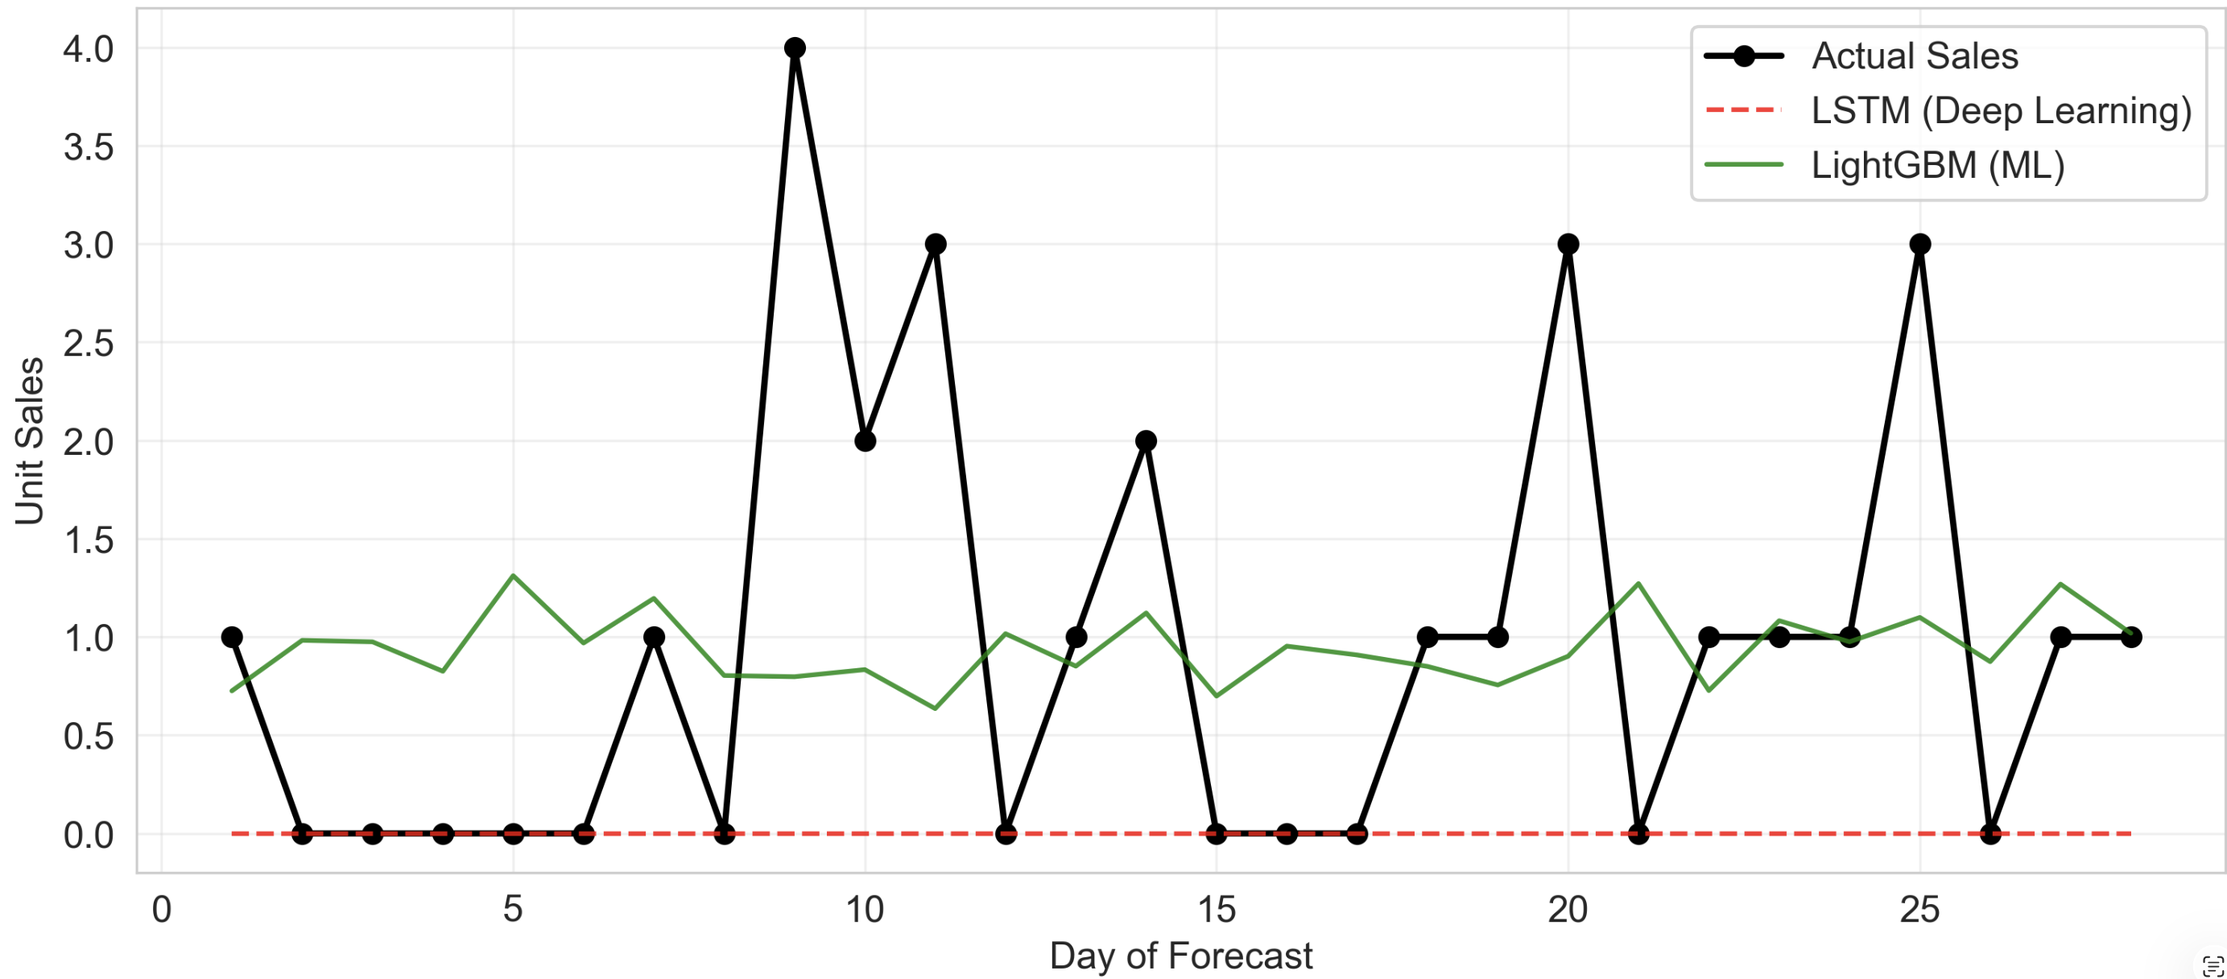
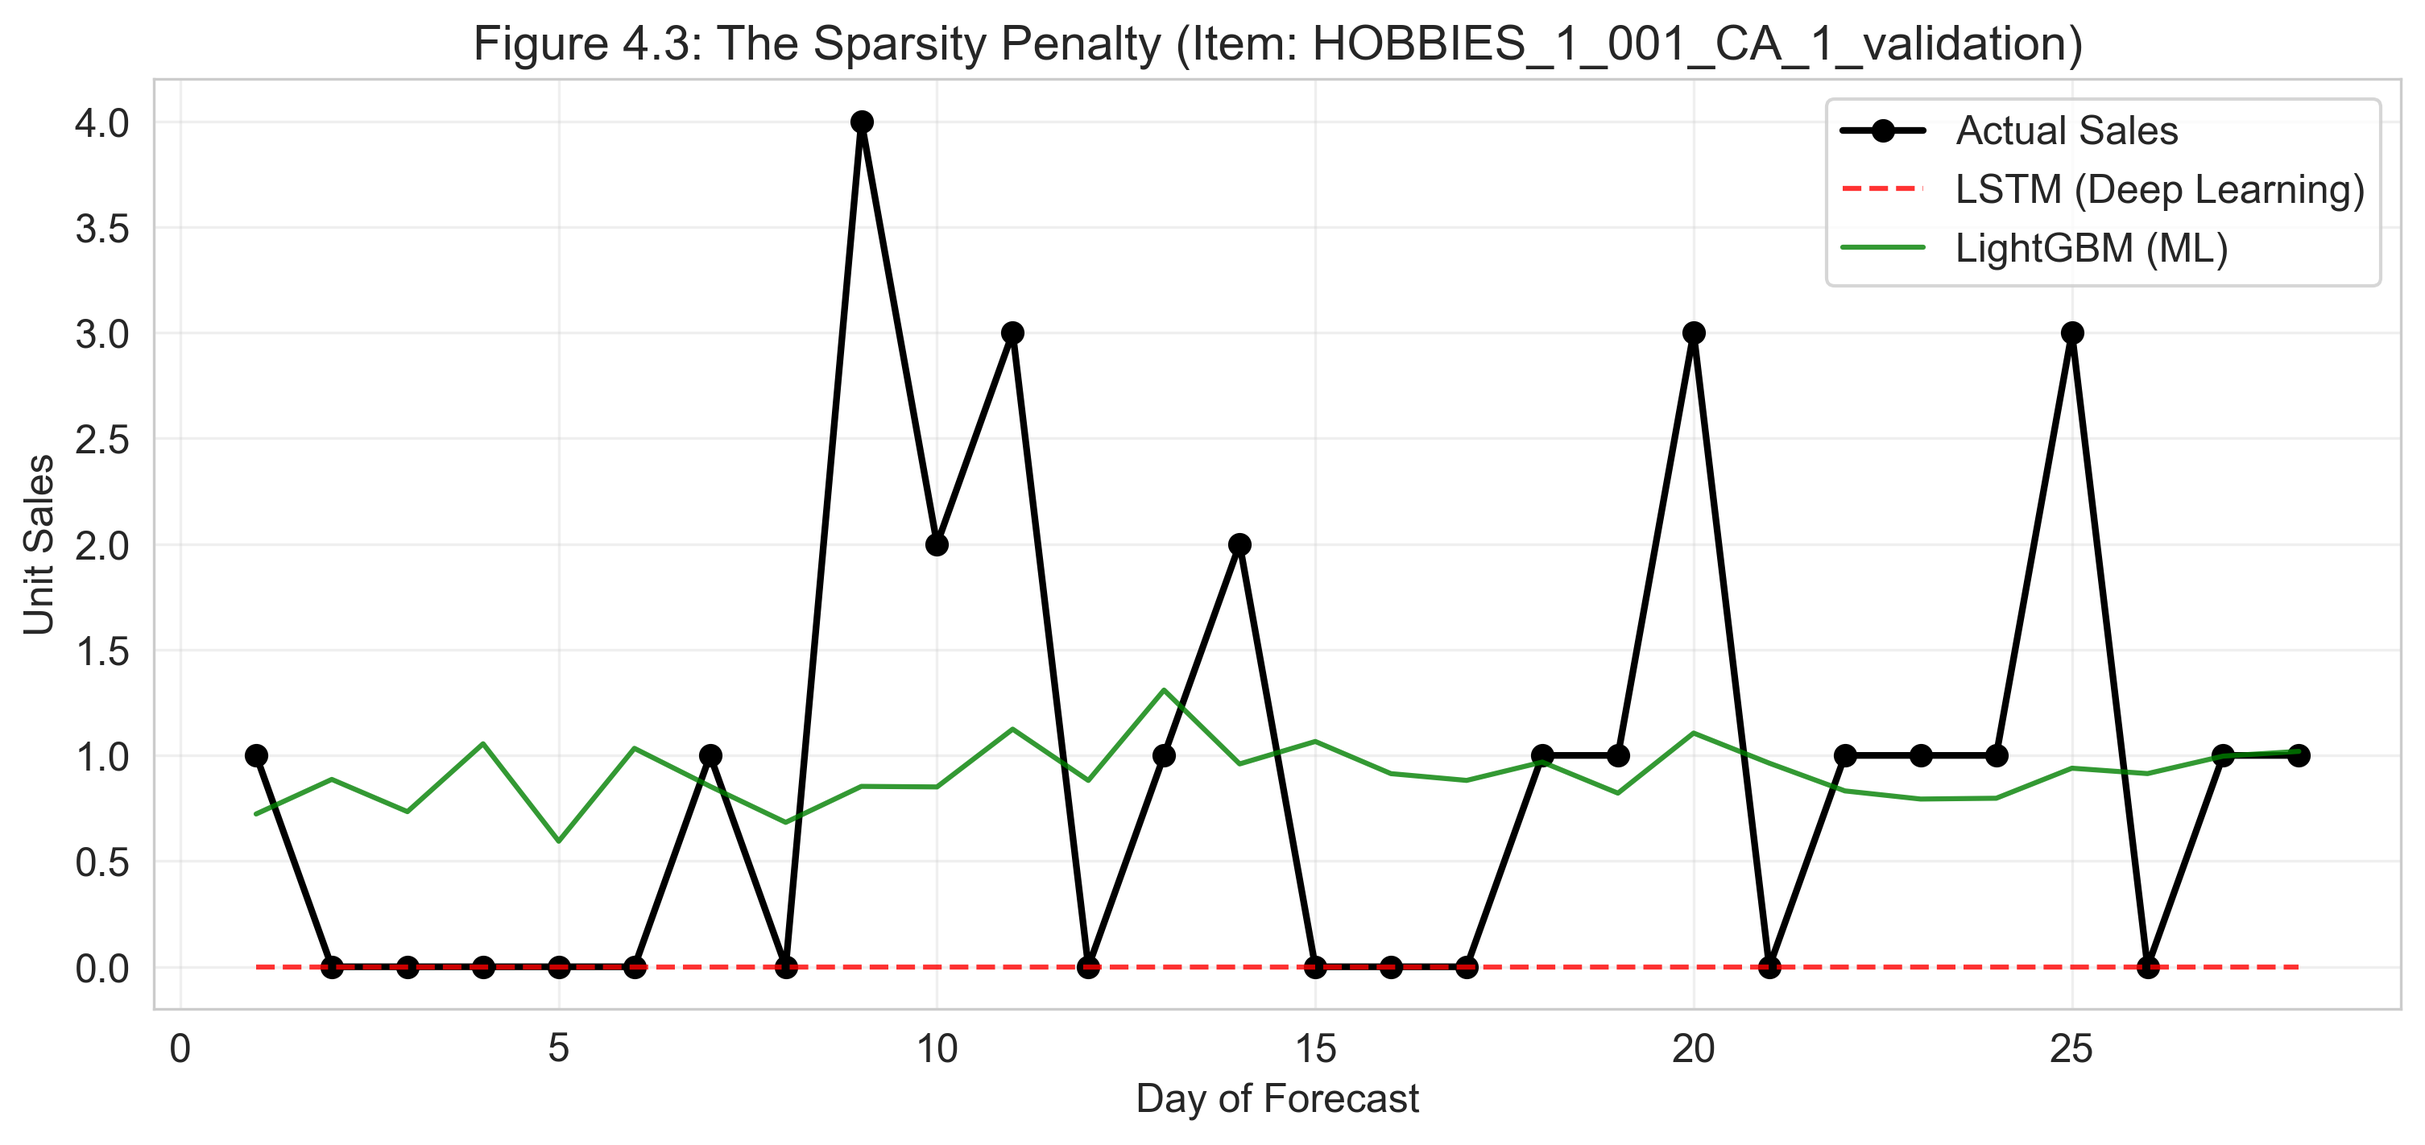
refactor: update report work plans, adjust plot labels, and remove redundant image assets

diff --git a/backend/reports/diagrams/create_report_plots.py b/backend/reports/diagrams/create_report_plots.py
@@ -32,7 +32,7 @@ def plot_zero_inflation():
         counts = sample['sales'].value_counts().sort_index().head(10) # 0 to 9
         
         sns.barplot(x=counts.index, y=counts.values, color="skyblue", edgecolor="black")
-        plt.title("Figure 4.1: Zero-Inflation in M5 Dataset (Sample of 1M Rows)")
+        plt.title("Figure 4.3: Zero-Inflation in M5 Dataset (Sample of 1M Rows)")
         plt.xlabel("Daily Unit Sales")
         plt.ylabel("Frequency")
         plt.yscale("log") # Log scale to show the drop
@@ -67,8 +67,8 @@ def plot_benchmark_leaderboard():
         print(f"Skipping Figure 4.2: {e}")
 
 def plot_financial_impact():
-    """Figure 4.4: Cost Comparison"""
-    print("Generating Figure 4.4 (Financial Impact)...")
+    """Figure 5.3: Cost Comparison"""
+    print("Generating Figure 5.3. (Financial Impact)...")
     try:
         df = pd.read_csv(RESULTS_DIR / "optimization/optimization_summary.csv")
         
@@ -85,7 +85,7 @@ def plot_financial_impact():
         p1 = plt.bar(models, stockout, color='#e74c3c', label='Stockout Cost')
         p2 = plt.bar(models, holding, bottom=stockout, color='#f1c40f', label='Holding Cost')
         
-        plt.title("Figure 4.4: Financial Impact Analysis (Inventory Simulation)")
+        plt.title("Figure 5.3.: Financial Impact Analysis (Inventory Simulation)")
         plt.ylabel("Total Logistics Cost ($)")
         plt.legend()
         

diff --git a/docs/ie4198/IE4198 - Final Report.md b/docs/ie4198/IE4198 - Final Report.md
@@ -221,39 +221,39 @@ Table 5.2: Inventory Optimization Simulation Results ………………………
 
 ### **IE 4197 Work Plan**
 
-| Wp | Name of Wp | Responsible | w1 | w2 | w3 | w4 | w5 | w6 | w7 | w8 | w9 | w10 | w11 | w12 | w13 | w14 |
-| :--- | :--- | :--- | :--- | :--- | :--- | :--- | :--- | :--- | :--- | :--- | :--- | :--- | :--- | :--- | :--- | :--- |
-| **1.** | **Defining the Problem** | **All Group Members** | X | X | X | | | | | | | | | | | |
-| 1.1 | Analyze Bullwhip & Cost Balance | All Group Members | X | X | | | | | | | | | | | | |
-| 1.2 | Problem Statement & Diagram | All Group Members | | X | X | | | | | | | | | | | |
-| **2.** | **Literature Review & Examination** | **Boran T., Hakan İ.** | | | | X | X | X | X | | | | | | | |
-| 2.1 | ML Literature Review | Boran Turan | | | | X | X | X | | | | | | | | |
-| 2.2 | Classical Literature & Standard | Hakan İspir | | | | | X | X | X | | | | | | | |
-| **3.** | **Method Identification & Modeling** | **Ali K., Boran T.** | | | | | | | | | X | X | X | | | |
-| 3.1 | Dual-Track Architecture | Ali Kahya | | | | | | | | | X | X | | | | |
-| 3.2 | Mathematical Modeling | Boran Turan | | | | | | | | | | X | X | | | |
-| **4.** | **Validating Data & Tools** | **Hakan İspir** | | | | | | | | | | | | X | X | X |
-| 4.1 | EDA & Data Setup | Hakan İspir | | | | | | | | | | | | X | X | |
-| 4.2 | Project Repository & Plan | Hakan İspir | | | | | | | | | | | | | X | X |
+| Wp           | Name of Wp                                 | Responsible                 | w1 | w2 | w3 | w4 | w5 | w6 | w7 | w8 | w9 | w10 | w11 | w12 | w13 | w14 |
+| :----------- | :----------------------------------------- | :-------------------------- | :- | :- | :- | :- | :- | :- | :- | :- | :- | :-- | :-- | :-- | :-- | :-- |
+| **1.** | **Defining the Problem**             | **All Group Members** | X  | X  | X  |    |    |    |    |    |    |     |     |     |     |     |
+| 1.1          | Analyze Bullwhip & Cost Balance            | All Group Members           | X  | X  |    |    |    |    |    |    |    |     |     |     |     |     |
+| 1.2          | Problem Statement & Diagram                | All Group Members           |    | X  | X  |    |    |    |    |    |    |     |     |     |     |     |
+| **2.** | **Literature Review & Examination**  | **All Group Members** |    |    |    | X  | X  | X  | X  |    |    |     |     |     |     |     |
+| 2.1          | ML Literature Review                       | Hakan İspir                |    |    |    | X  | X  | X  |    |    |    |     |     |     |     |     |
+| 2.2          | Classical Literature & Standard            | Ali K., Boran T.            |    |    |    |    | X  | X  | X  |    |    |     |     |     |     |     |
+| **3.** | **Method Identification & Modeling** | **Ali K., Boran T.**  |    |    |    |    |    |    |    |    | X  | X   | X   |     |     |     |
+| 3.1          | Dual-Track Architecture                    | Ali Kahya                   |    |    |    |    |    |    |    |    | X  | X   |     |     |     |     |
+| 3.2          | Mathematical Modeling                      | Boran Turan                 |    |    |    |    |    |    |    |    |    | X   | X   |     |     |     |
+| **4.** | **Validating Data & Tools**          | **All Group Members**      |    |    |    |    |    |    |    |    |    |     |     | X   | X   | X   |
+| 4.1          | EDA & Data Setup                           | Hakan İ., Ali K.           |    |    |    |    |    |    |    |    |    |     |     | X   | X   |     |
+| 4.2          | Project Repository & Plan                  | Hakan İ., Boran T.         |    |    |    |    |    |    |    |    |    |     |     |     | X   | X   |
 
 <br>
 
 ### **IE 4198 Work Plan**
 
-| Wp | Name of Wp | Responsible | w1 | w2 | w3 | w4 | w5 | w6 | w7 | w8 | w9 | w10 | w11 | w12 | w13 | w14 |
-| :--- | :--- | :--- | :--- | :--- | :--- | :--- | :--- | :--- | :--- | :--- | :--- | :--- | :--- | :--- | :--- | :--- |
-| **5.** | **Global Scaling & ETL** | **Hakan İ., Boran T.** | X | X | X | | | | | | | | | | | |
-| 5.1 | Polars Pipeline Translation | Hakan İspir | X | X | | | | | | | | | | | | |
-| 5.2 | Full Dataset Ingestion | Boran Turan | | X | X | | | | | | | | | | | |
-| **6.** | **Advanced Model Development** | **Boran T., Ali K.** | | | | X | X | X | X | | | | | | | |
-| 6.1 | Feature Engineering & LightGBM | Boran Turan | | | | X | X | X | | | | | | | | |
-| 6.2 | DeepAR Architecture | Ali Kahya | | | | | X | X | X | | | | | | | |
-| **7.** | **DSS & Economics Simulation** | **Hakan İ.** | | | | | | | | X | X | X | X | | | |
-| 7.1 | DSS & Critical Ratio Optimizer | Hakan İspir | | | | | | | | X | X | X | | | | |
-| 7.2 | SHAP & Financial Simulation | Hakan İspir | | | | | | | | | X | X | X | | | |
-| **8.** | **Final Evaluation & Documentation** | **All Group Members** | | | | | | | | | | | | X | X | X |
-| 8.1 | Data Synthesis & Conclusion | All Group Members | | | | | | | | | | | | X | X | |
-| 8.2 | Final Report & Defense | All Group Members | | | | | | | | | | | | | X | X |
+| Wp           | Name of Wp                                 | Responsible                   | w1 | w2 | w3 | w4 | w5 | w6 | w7 | w8 | w9 | w10 | w11 | w12 | w13 | w14 |
+| :----------- | :----------------------------------------- | :---------------------------- | :- | :- | :- | :- | :- | :- | :- | :- | :- | :-- | :-- | :-- | :-- | :-- |
+| **5.** | **Global Scaling & ETL**             | **Hakan İ., Boran T.** | X  | X  | X  |    |    |    |    |    |    |     |     |     |     |     |
+| 5.1          | Polars Pipeline Translation                | Hakan İspir                  | X  | X  |    |    |    |    |    |    |    |     |     |     |     |     |
+| 5.2          | Full Dataset Ingestion                     | Boran Turan                   |    | X  | X  |    |    |    |    |    |    |     |     |     |     |     |
+| **6.** | **Advanced Model Development**       | **Hakan İspir**        |    |    |    | X  | X  | X  | X  |    |    |     |     |     |     |     |
+| 6.1          | Feature Engineering & LightGBM             | Hakan İspir                  |    |    |    | X  | X  | X  |    |    |    |     |     |     |     |     |
+| 6.2          | DeepAR Architecture                        | Hakan İspir                  |    |    |    |    | X  | X  | X  |    |    |     |     |     |     |     |
+| **7.** | **DSS & Economics Simulation**       | **All Group Members**        |    |    |    |    |    |    |    | X  | X  | X   | X   |     |     |     |
+| 7.1          | DSS & Critical Ratio Optimizer             | All Group Members             |    |    |    |    |    |    |    | X  | X  | X   |     |     |     |     |
+| 7.2          | SHAP & Financial Simulation                | All Group Members             |    |    |    |    |    |    |    |    | X  | X   | X   |     |     |     |
+| **8.** | **Final Evaluation & Documentation** | **All Group Members**   |    |    |    |    |    |    |    |    |    |     |     | X   | X   | X   |
+| 8.1          | Data Synthesis & Conclusion                | All Group Members             |    |    |    |    |    |    |    |    |    |     |     | X   | X   |     |
+| 8.2          | Final Report & Defense                     | All Group Members             |    |    |    |    |    |    |    |    |    |     |     |     | X   | X   |
 
 <br>
 
@@ -262,6 +262,7 @@ Table 5.2: Inventory Optimization Simulation Results ………………………
 **Duration**: 1 – 3 weeks
 **Work Package 1:** Defining the Problem
 **Activities:**
+
 * Looking into the Bullwhip Effect within today’s retail supply networks reveals how flawed predictions often lead to too much stock. One major cause behind surplus inventory turns out to be unreliable demand forecasts.
 * Started by outlining what the M5 Forecasting Challenge covered, particularly how balancing leftover stock expenses shaped decisions instead of running out too often. Costs tied to excess storage played off against those linked to missing sales. This balance guided the entire approach taken throughout the study.
 * Early discussions took place with the project supervisor, Professor Doctor Serol Bulkan, ensuring research goals matched academic expectations. Starting these conversations helped clarify direction early on.
@@ -273,9 +274,10 @@ Table 5.2: Inventory Optimization Simulation Results ………………………
 **Duration**: 4 – 7 weeks
 **Work Package 2:** Literature Review & Examination of the Application
 **Activities:**
-* A thorough analysis of scholarly work on traditional prediction methods - such as Box-Jenkins and ARIMA - was carried out alongside newer techniques like Deep Learning and LSTM. 
+
+* A thorough analysis of scholarly work on traditional prediction methods - such as Box-Jenkins and ARIMA - was carried out alongside newer techniques like Deep Learning and LSTM.
 * Looking into the outcomes of the initial M5 Competition (Makridakis et al., 2022) [9], insight emerged about current benchmark standards.
-* Looked into how sparse demand patterns appear in retail datasets, then examined effects on standard accuracy measures such as RMSE. 
+* Looked into how sparse demand patterns appear in retail datasets, then examined effects on standard accuracy measures such as RMSE.
 * Looking into common inventory methods, particularly the (Q, r) approach used in continuous monitoring.
 
 **Deliveries of WP2:** Literature Review Chapter, List of Selected Algorithms (e.g. ARIMA, LightGBM, LSTM).
@@ -284,6 +286,7 @@ Table 5.2: Inventory Optimization Simulation Results ………………………
 **Duration**: 9 – 11 weeks
 **Work Package 3:** Method Identification & Conceptual Modeling
 **Activities:**
+
 * A new structure called "Dual-Track" was built so that traditional models could operate at the same time as machine learning ones.
 * Established a mathematical link connecting Forecast Error, measured by RMSE, to Safety Stock using the expression SS equals Z times the square root of L.
 * For measuring accuracy, RMSE was chosen; regarding operational results, Total Logistics Cost served as the key indicator.
@@ -295,7 +298,8 @@ Table 5.2: Inventory Optimization Simulation Results ………………………
 **Duration**: 12 – 14 weeks
 **Work Package 4:** Validating Data & Identifying Tools
 **Activities:**
-* Fresh off the platform, the M5 Dataset arrived intact - checked down to its 58 million entries. 
+
+* Fresh off the platform, the M5 Dataset arrived intact - checked down to its 58 million entries.
 * Started by installing Python, then add Polars to handle data efficiently. Next comes PyTorch - use it for building models later on.
 * Starting with a look at the data, patterns in sales were mapped over time. Visual tools helped spot recurring seasonal shifts throughout the year.
 * Created a GitHub repository to manage code versions while enabling team collaboration.
@@ -308,6 +312,7 @@ Table 5.2: Inventory Optimization Simulation Results ………………………
 **Duration**: 1 – 3 weeks
 **Work Package 5:** Global Scaling & Pipeline Optimization
 **Activities:**
+
 * Refactoring the data processing pipeline to use Polars, addressing the out-of-memory limitations encountered with Pandas in the previous semester.
 * Ingesting and processing the full 59-million row M5 Dataset across all 10 Walmart stores and 30,490 SKUs, expanding the scope from the initial pilot study.
 * Designing and implementing a recursive inference loop to prevent data leakage during multi-horizon forecasting, ensuring that future sales data isn't inadvertently used in lag feature generation.
@@ -318,6 +323,7 @@ Table 5.2: Inventory Optimization Simulation Results ………………………
 **Duration**: 4 – 7 weeks
 **Work Package 6:** Advanced Model Development & Training
 **Activities:**
+
 * Engineering complex temporal features, including 28-day rolling means and staggered lag variables.
 * Training the LightGBM ensemble architecture on the global dataset, tuning hyperparameters for sparse data handling.
 * Implementing and training the DeepAR architecture using PyTorch, evaluating its autoregressive handling of zero-inflated items.
@@ -329,6 +335,7 @@ Table 5.2: Inventory Optimization Simulation Results ………………………
 **Duration**: 8 – 11 weeks
 **Work Package 7:** Decision Support System (DSS) & Economics Simulation
 **Activities:**
+
 * Creating an interactive Decision Support System (DSS) using the Next.js React framework.
 * Designing the Newsvendor simulation to translate raw forecasting errors into financial impact (Total Logistics Cost).
 * Implementing SHAP (SHapley Additive exPlanations) to interpret the LightGBM model and expose the predictive drivers to supply chain managers via the dashboard.
@@ -340,6 +347,7 @@ Table 5.2: Inventory Optimization Simulation Results ………………………
 **Duration**: 12 – 14 weeks
 **Work Package 8:** Final Evaluation & Documentation
 **Activities:**
+
 * Synthesizing the experimental data and financial simulation results into actionable business insights.
 * Finalizing the academic documentation and drafting the capstone final report.
 * Designing the final defense presentation to showcase the dashboard and mathematical findings.
@@ -601,7 +609,6 @@ The integration of SHAP revealed exactly what drives LightGBM's superior accurac
 
 **Figure 5.4.** SHAP Feature Importance summary plot detailing predictive drivers along with the interactive DSS.
 
-![](./images/comparison.png)
 
 ## **5.4. Dynamic Sensitivity Analysis & Economics**
 
@@ -609,7 +616,6 @@ The interactive Decision Support System (DSS) was used to conduct a sensitivity 
 
 **Figure 5.5.** The Interactive Decision Support System dashboard illustrating Newsvendor sensitivity.
 
-![](./images/dashboard.png)
 
 Interestingly, adjusting the Critical Ratio ($CR$) shifts the optimal model choice in counterintuitive ways. When $CR$ is extremely high (e.g., Stockout Cost >> Holding Cost), conservative models like LSTM or DeepAR might theoretically minimize expected cost because they inherently over-forecast, providing a wider safety buffer against severe stockout penalties. Conversely, at low $CR$, models that forecast closer to zero minimize holding costs on intermittent items. LightGBM remained globally optimal across standard and balanced parameter ranges, showcasing its robustness.
 
@@ -632,7 +638,7 @@ What sets this initiative apart isn’t just cost savings \- it tackles a hidden
 
 ## **Engineering Design**
 
-The core engineering problem solved in this project is the optimization of inventory safety stock parameters through the accurate modeling of zero-inflated, intermittent retail demand. A "Dual-Track" methodology was implemented. Classical methods like ARIMA and Holt-Winters were developed alongside modern gradient-boosting (LightGBM) and neural network (DeepAR) solutions. 
+The core engineering problem solved in this project is the optimization of inventory safety stock parameters through the accurate modeling of zero-inflated, intermittent retail demand. A "Dual-Track" methodology was implemented. Classical methods like ARIMA and Holt-Winters were developed alongside modern gradient-boosting (LightGBM) and neural network (DeepAR) solutions.
 
 The LightGBM ensemble approach was ultimately selected because it empirically provided the best balance of low RMSE and computational efficiency over a highly sparse 59-million-row dataset. This efficiency directly addressed the industry need for rapid nightly forecast updates across entire product catalogs. The industrial contribution extends to the Decision Support System (DSS) dashboard, transitioning the black-box AI outputs into a dynamic Newsvendor optimization framework usable by logistics managers. The technical execution utilized Operations Research theory (Critical Ratio), Statistical Modeling, and full-stack software development (Python, Polars, React) previously learned in the IE curriculum.
 
@@ -653,7 +659,6 @@ This project successfully implemented and compared three forecasting paradigms: 
 3. **Technical Implementation:** Processing large datasets required a shift from conventional methods. Because Pandas struggled with fifty million rows, adopting Polars became necessary. Efficiency gains emerged when newer frameworks replaced older ones. Data scale exposed limits of familiar tools. Success depended on choosing faster, memory-efficient alternatives. Modern engineering tasks demand updated computational approaches.
 
 When demand shifts unpredictably, LightGBM fits the task of prediction quite naturally. Though training takes more time, savings on stock costs become clear over repeated cycles. Because it adapts quickly to changes, the method works reliably where uncertainty runs high.
-
 
 Notable is the way improved inventory management via artificial intelligence aligns with responsible business conduct. Because stored products decrease by close to 20 percent, energy demand for warehouse lighting and temperature systems falls accordingly. Overproduction waste declines when such methods are applied. As a result, factory output starts reflecting wider sustainability goals. These operational improvements bring about indirect yet beneficial environmental outcomes.
 
@@ -790,13 +795,13 @@ BEGIN PROCEDURE DataPipeline
 41.         FOR day $t = 1$ to $H$ DO
 42.             Demand $D_t = T_{val}[i, t]$
 43.             NetInventory $I_t = S_i - D_t$
-44.       
+44.     
 45.             IF $I_t > 0$ THEN
 46.                 Cost = $I_t \cdot C_h$  // Holding Cost
 47.             ELSE
 48.                 Cost = $|I_t| \cdot C_s$ // Stockout Cost
 49.             END IF
-50.       
+50.     
 51.             $TC = TC + Cost$
 52.         END FOR
 53.     END FOR
